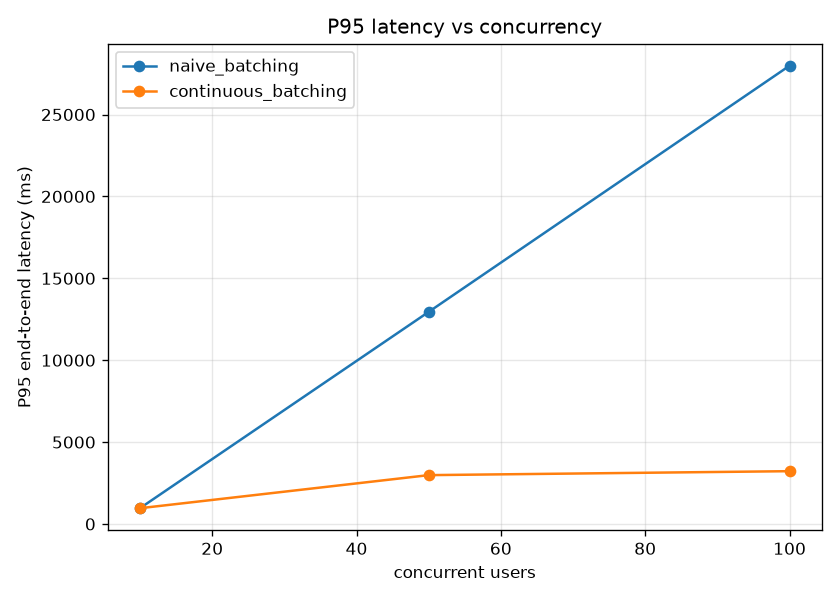
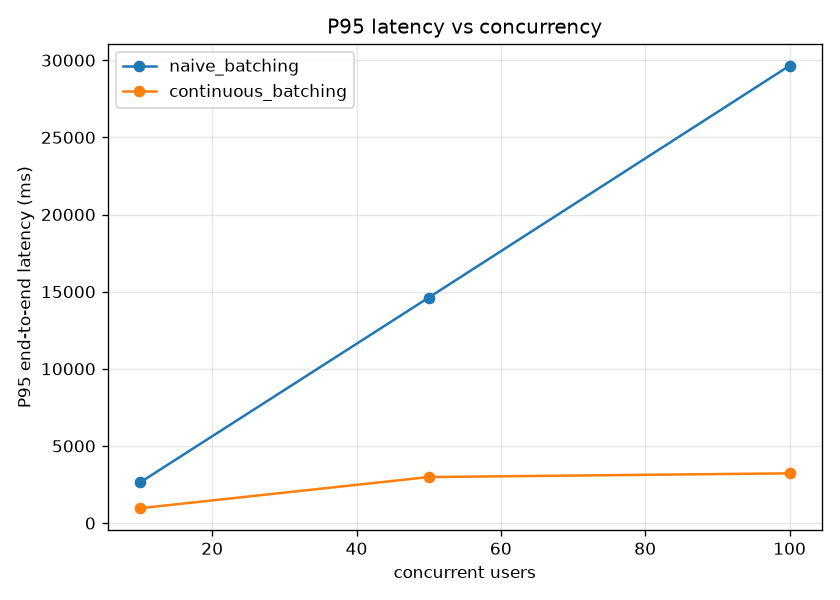
fix(batching-sim): naive batcher waits for batch to fill before prefilling

diff --git a/02_batching_sim/policies.py b/02_batching_sim/policies.py
@@ -23,11 +23,18 @@ def naive_batching(requests: list[Request], cost: CostModel, max_batch_size: int
         if clock < pending[next_idx].arrival_time:
             clock = pending[next_idx].arrival_time
 
-        # form the batch
+                # form the batch
         batch: list[Request] = []
         while next_idx < len(pending) and len(batch) < max_batch_size:
             batch.append(pending[next_idx])
             next_idx += 1
+
+        # wait until every member of the batch has arrived before
+        # prefilling any of them. this is what static batching does:
+        # it collects a full batch, then runs it.
+        latest_arrival = max(r.arrival_time for r in batch)
+        if clock < latest_arrival:
+            clock = latest_arrival
 
         # prefill each request in the batch (sequential prefills)
         for r in batch:
